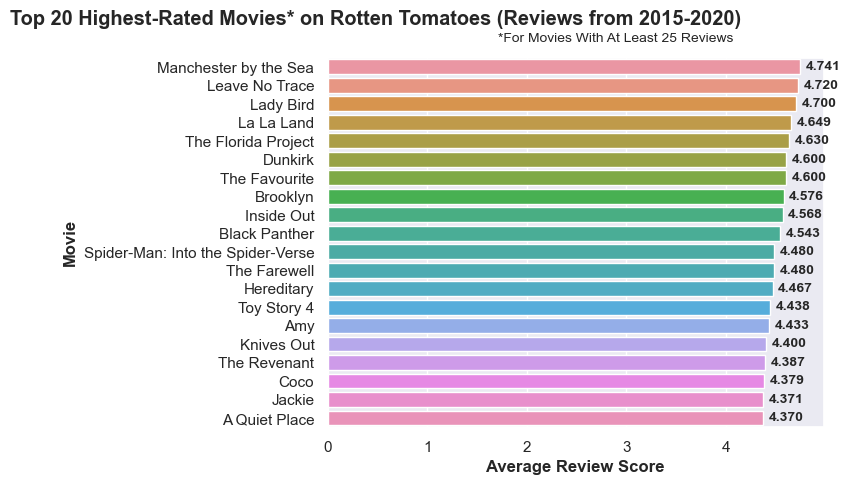
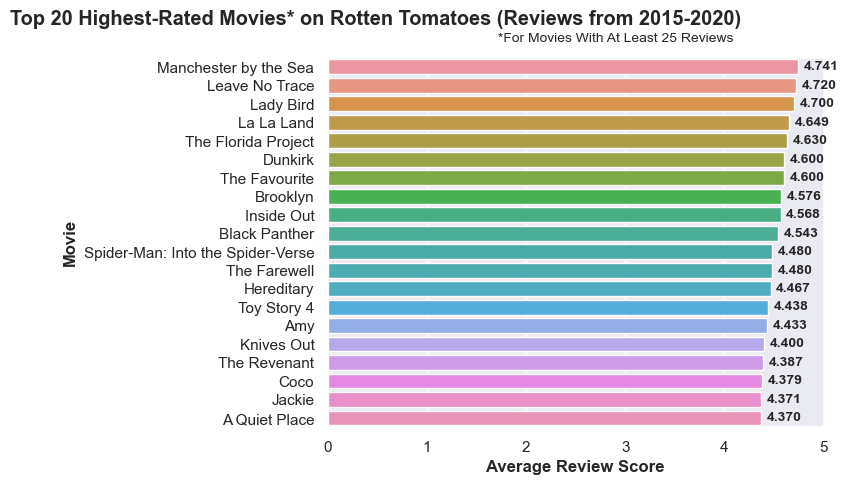
fix test bar chart (neg) x-axis labels

diff --git a/testing.py b/testing.py
@@ -51,6 +51,7 @@ def test_plot_top_20_movies(movie_reviews: pd.DataFrame) -> None:
               fontsize='small', x=0.58, y=1.02)
     plt.xlabel("Average Review Score", fontweight='bold')
     plt.ylabel("Movie", fontweight='bold')
+    plt.xticks(range(6))
 
     # save plot
     plt.savefig('test_20_highest_rated_movies.png', bbox_inches='tight')
@@ -187,9 +188,9 @@ def main():
 
     test_plot_top_20_movies(test_movie_reviews)
     test_plot_bottom_20_movies(test_movie_reviews)
-    # call function to test positive word cloud
-    # call function to test negative word cloud
-    test_word_count_vs_review_score(test_movie_reviews)
+    # # call function to test positive word cloud
+    # # call function to test negative word cloud
+    # test_word_count_vs_review_score(test_movie_reviews)
     print('Testing accuracy:')
     print(test_fit_and_predict(test_movie_reviews))
 

diff --git a/main.py b/main.py
@@ -117,6 +117,7 @@ def plot_top_20_movies(movie_reviews: pd.DataFrame) -> None:
               fontsize='small', x=0.58, y=1.02)
     plt.xlabel("Average Review Score", fontweight='bold')
     plt.ylabel("Movie", fontweight='bold')
+    plt.xticks(range(6))
 
     # save plot
     plt.savefig('20_highest_rated_movies.png', bbox_inches='tight')
